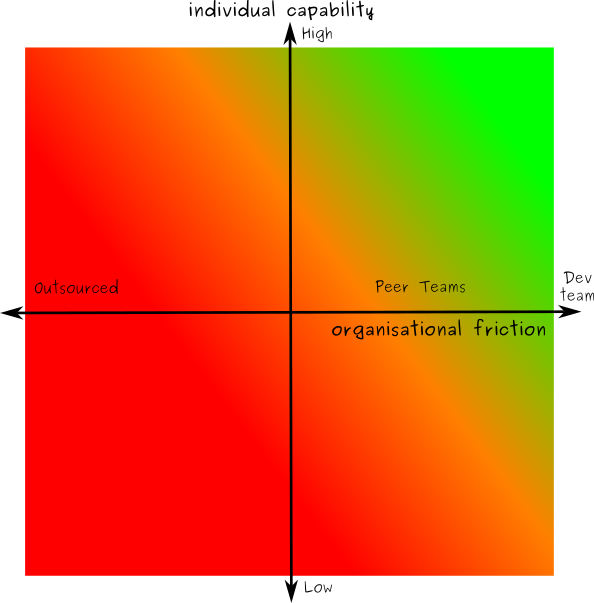
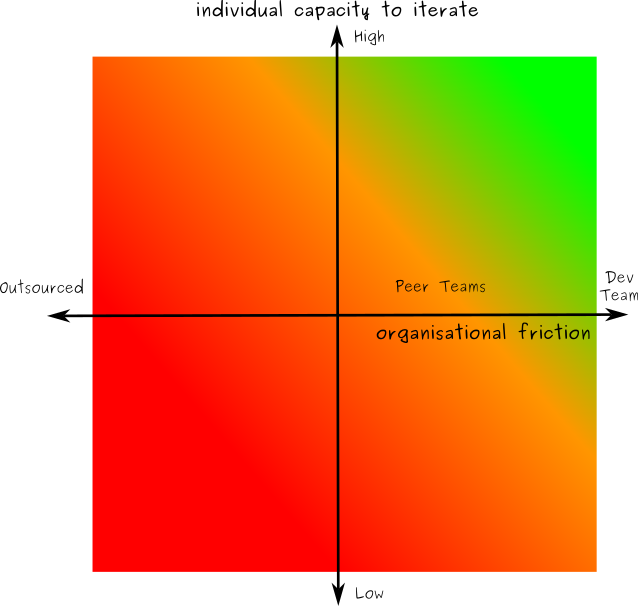
Final draft.

diff --git a/content/w/2023-08-31-oncall-models/index.md b/content/w/2023-08-31-oncall-models/index.md
@@ -9,17 +9,16 @@ card_image: oncall-opportunity.jpg
 categories:
   - Technology
 ---
+The [mental models](https://en.wikipedia.org/wiki/Mental_model) in our heads shape every discussion. Understanding how they align or differ between participants in a conversation is an important aspect of effective communication. This is particularly relevant for topics such as on-call where a wide range of different experiences lead to strongly held opinions.
 
-Productive discussion of how to realise the [opportunity offered by on-call]({{% relref "2023-08-16-oncall-opportunity.md" %}}) requires understanding the different experiences and mental models of on-call that exist in the world.
-
-This post aims to step back from high-level discussion of the opportunity on-call offers to focus on explaining two key mental models I use to think about on-call and the roles and responsibilities of the different people involved.
+This post steps back from high-level discussion of the opportunity on-call offers to focus on describing two key mental models I use to think about on-call and the roles and responsibilities of the different people involved.
 
 
  ## What is on-call?
 
-Beyond the simplistic understanding of on-call being responsible for fixing something when it breaks, I find that looking at where on-call sits in the broader landscape of work involved in developing and operating a software system provides a more complete understanding of what's involved.
+Beyond the obvious concept of on-call being responsible for fixing something when it breaks, I find that looking at where on-call sits in the broader landscape of work required to develop and operate a software system provides a more useful model for understanding what it involves.
 
-![on-call work model](oncall-what.png#center "The landscape of software work. Apologies for the rough diagram.")
+![on-call work model](oncall-what.png#center "The landscape of software work, with apologies for the ugly diagram.")
 
  On the horizontal axis is the time window within which the work must be completed, from months on the left to minutes on the right. On the vertical axis is the number of people directly involved in completing the unit of work, from a single individual at the bottom up to the entire company at the top.
 
@@ -30,39 +29,42 @@ This framing of on-call shows why responsiveness is key, but also explains why [
 
 ## Who should be on-call?
 
-In an ideal world everyone developing software would benefit from the opportunity for growth and development that on-call provides, but "you build it, you run it" won't deliver results in practice if the engineers developing the software are not provided with an effective and supportive environment.
+In an ideal world everyone developing software would benefit from the opportunity for growth and development that on-call provides, but a simplistic "you build it, you run it" answer is not sufficient because realisation of the opportunity requires an effective on-call environment.
 
-Creating that environment requires balancing the ideal of developers being directly on-call for the software they write against constraints such as minimum rotation sizes, sufficient knowledge of the systems supported and many other factors, all of which are in some amount of tension with each other.
+Creating an effective on-call environment requires balancing many constraints. A key indicator that an effective balance is being achieved is the [presence of growth]({{% relref "2023-08-16-oncall-opportunity.md#checking-the-direction-of-travel" %}}), which comes with [learning through iteration]({{% relref "2023-08-16-oncall-opportunity.md#growth-through-iteration" %}}).
 
-The solution to this problem will look different in every situation. There is no single model of on-call staffing or rotation structure that must be followed, but that does not mean the structure is unimportant.
+Faster iterations mean more growth opportunities. The structure and staffing of an on-call rotation play a significant role in determining the likely cost or level of investment required to complete each iteration of learning.
 
-The structure of a rotation directly influences the opportunity its members have to engage in the iterative process of growth and development that results in fulfilling on-call. The level of that opportunity can be modelled through a combination of individual capability vs organisational friction.
+![on-call staffing](oncall-who.png#center "Expected cost/investment required to achieve iterative growth.")
 
-![on-call staffing](oncall-who.png#center "Expected investment level to achieve effective on-call.")
+The staffing of an on-call rotation can be drawn as a shape on this chart that reflects where the individuals are located and their capacity for iteration. Distance from the development team slows iteration speed due to organisational friction. Missing skill sets, limited time and conflicting incentives limit individual capacity to participate in iterative learning.
 
-The horizontal axis shows the level of organisational friction to delivering change. Initially this is dominated by communication and co-ordination overheads within and between teams. As the distance from the development team increases (leftwards on the axis), and organisational boundaries accumulate, additional costs in the form of policy, legal and even contractual or financial barriers are added. Often to such an extent that no change at all is possible in fully outsourced environments.
+The goal is to be near to the top right of this scale, while recognising that there are forces constantly pushing away from the ideal in the top-right corner that constrain what is realistically achievable.
 
-The vertical axis represents the individual capability members of the on-call rotation have to implement change to the system. Encompassing a broad range of factors from their expertise with the production and software development environments, the time available to them and the organisational incentives and motivations that influence where their time is spent.
+The location and the shape of on-call rotation that provides the best outcome for any particular situation will vary based on the unique constraints involved. There is no easy or universally optimal answer to how an on-call rotation should be staffed. Effective and fulfilling on-call environments can be found in much of the upper-right quadrant.
 
-While the upper right corner might look like utopia the vast majority of effective and fulfilling on-call environments are typically found at various points across the upper-right quadrant. The model acknowledges the reality that every on-call rotation is a balancing of constraints. What the model helps to illustrate is the likely level of investment and types of work that will be required to achieve fulfilling on-call will be for a rotation at any particular point.
+The model helps to understand what type and level of investment will likely be required to achieve that, or to improve from the current position regardless of where that is located.
 
 
-## Effective on-call requires leadership support
+## Leadership support is key
 
-This model also illustrates the crucial role that leaders of teams and organisations must fulfil in creating an environment that enables effective on-call experiences. In the absence of leadership support, teams and individuals can still drive some gains, but they will come at higher cost than what can be achieved when there is alignment throughout the organisation on the value that on-call can provide.
+Effective on-call environments require committed leadership.
 
-This is most obviously demonstrated by considering movement on the horizontal axis, where changing which teams the staffing of an on-call rotation is drawn from, or the creation and turn down of entire teams associated with an on-call rotation involve significant organisational management effort and cannot be driven by individuals alone.
+This is most obvious when looking reducing organisational friction. Changing the teams staffing for an on-call rotation is drawn from, or the creation and turn down of entire teams associated with an on-call rotation involve significant organisational management effort and cannot be driven by individuals alone.
 
-Within an on-call rotation, movement upwards on the scale can be incrementally driven by individual and collective improvements to processes and systems even without formal leadership support. However, the size and pace of these increments will be greatly improved by leaders who incentivise and reward time spent learning and improving in the team.
+Within an on-call rotation, individual and collective efforts can drive incremental improvement in the capacity to iterate even without formal leadership support. However, the size and pace of these increments will be limited. Supportive leadership that provides time and opportunity for this work as well as overall support for growth and learning will significantly improve the pace at which iteration capacity increases.
+
+Improving from high iteration cost to a lower iteration cost environment provides the clearest illustrations of the need for committed leadership, but the requirement does not stop once an effective on-call environment has been achieved. Continued leadership and committent is required to sustain the environment in the face of the constant forces pushing away from the desired state.
 
 
 ## A framework for effective on-call environments
 
-Returning to the first diagram, there is a notable absence of any structure to support the development of fulfilling on-call practices in the lower-right quadrant. Well established frameworks for project and program management, incident response and general day to day task execution easily come to mind when looking at the other three quadrants. For on-call, there's plenty of individual practices and specific actions recommended, but nothing that draws it all together to help teams provide structure in this important area.
+Thinking about the poor reputation of on-call through the lens of these models leads me to the conclusion that what is often missing is guidance for leaders and teams wanting to make practical improvements upwards or rightwards in their on-call environment. Recommendations for individual practices and specific actions that can improve on-call can be found, but not as a comprehensive or complete structure.
 
-The next few posts will look at how individual practices and specific actions, both those commonly understood today and some that are little talked about, can be combined together to create an effective on-call environment. Guiding teams of many different shapes and sizes to
-These two models provide the foundation of a framework to fill that gap which coming posts will explore further by looking at specific practices and actions teams and organisations can take to improve their on-call environment.
+Well established frameworks for project and program management, incident response and general day to day task execution easily come to mind when looking at the other three quadrants in the first model, but I'm not aware of anything similar in the on-call space.
 
-What mental models do you use to think about on-call? Are they similar or different to what I've described above?
+Over the next few posts, I plan to use these models to describe a framework for on-call that I've found adds this structure and as a result, enables the opportunity of on-call to be realised in a team.
 
-There's no right or wrong answers here, but having a clear understanding of how we each think about on-call is what leads to productive discussions that deliver learning and help translate experience and recommendations into practical actions that are relevant and useful in our specific situation.
+To get the most out of that discussion, I challenge you to think about what mental models you use to describe on-call? Are they similar or different to what I've described above?
+
+There's no right or wrong answers here, but having a clear understanding of how we each think about on-call is the foundation for the ability to translate diverse experiences and recommendations into practical actions that are relevant and useful in our specific situation.
